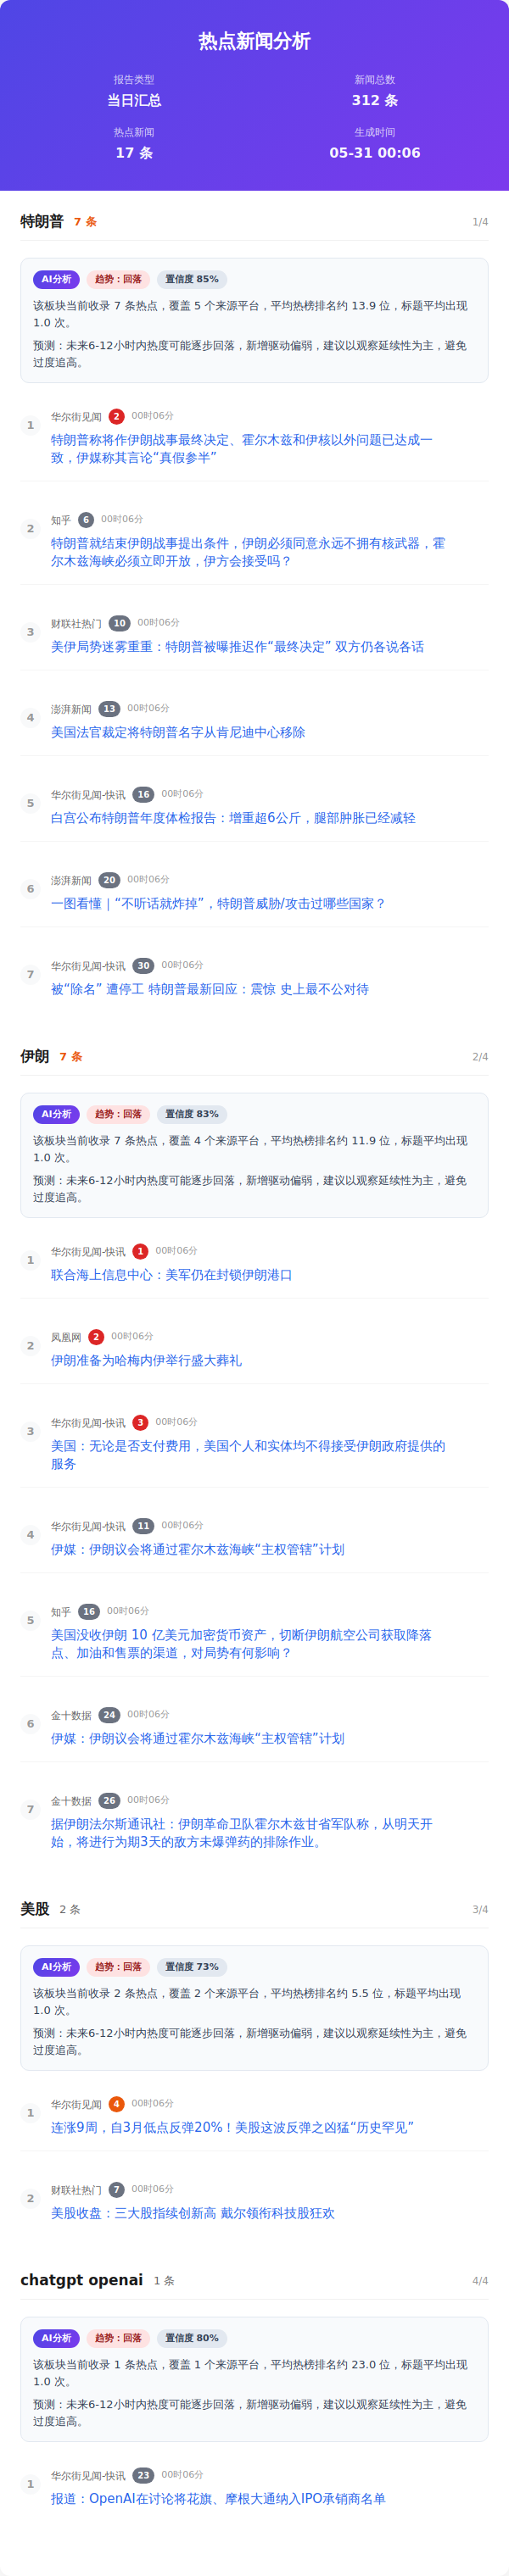
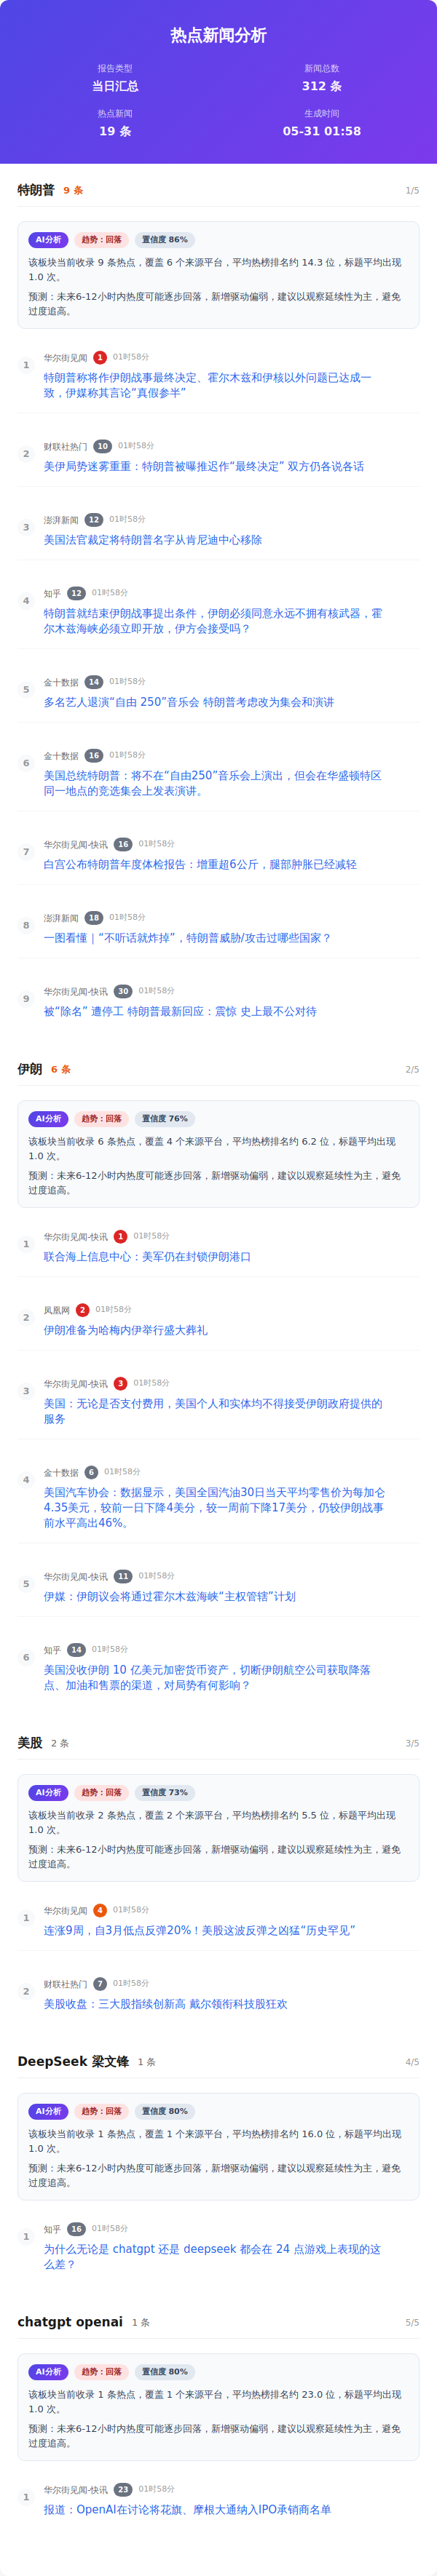
Auto update by GitHub Actions at Sun May 31 01:58:46 CST 2026

diff --git a/index.html b/index.html
@@ -459,11 +459,11 @@
                     </div>
                     <div class="info-item">
                         <span class="info-label">热点新闻</span>
-                        <span class="info-value">17 条</span>
+                        <span class="info-value">19 条</span>
                     </div>
                     <div class="info-item">
                         <span class="info-label">生成时间</span>
-                        <span class="info-value">05-31 00:06</span>
+                        <span class="info-value">05-31 01:58</span>
                     </div>
                 </div>
             </div>
@@ -473,24 +473,24 @@
                     <div class="word-header">
                         <div class="word-info">
                             <div class="word-name">特朗普</div>
-                            <div class="word-count warm">7 条</div>
+                            <div class="word-count warm">9 条</div>
                         </div>
-                        <div class="word-index">1/4</div>
+                        <div class="word-index">1/5</div>
                     </div>
                     <div class="ai-insight-card">
                         <div class="ai-insight-top">
                             <span class="ai-badge">AI分析</span>
                             <span class="trend-badge down">趋势：回落</span>
-                            <span class="confidence-pill">置信度 85%</span>
+                            <span class="confidence-pill">置信度 86%</span>
                         </div>
-                        <div class="ai-text">该板块当前收录 7 条热点，覆盖 5 个来源平台，平均热榜排名约 13.9 位，标题平均出现 1.0 次。</div>
+                        <div class="ai-text">该板块当前收录 9 条热点，覆盖 6 个来源平台，平均热榜排名约 14.3 位，标题平均出现 1.0 次。</div>
                         <div class="ai-text">预测：未来6-12小时内热度可能逐步回落，新增驱动偏弱，建议以观察延续性为主，避免过度追高。</div>
                     </div>
                     <div class="news-item ">
                         <div class="news-number">1</div>
                         <div class="news-content">
                             <div class="news-header">
-                                <span class="source-name">华尔街见闻</span><span class="rank-num top">2</span><span class="time-info">00时06分</span>
+                                <span class="source-name">华尔街见闻</span><span class="rank-num top">1</span><span class="time-info">01时58分</span>
                             </div>
                             <div class="news-title"><a href="https://wallstreetcn.com/articles/3773469" target="_blank" class="news-link">特朗普称将作伊朗战事最终决定、霍尔木兹和伊核以外问题已达成一致，伊媒称其言论“真假参半”</a>
                             </div>
@@ -500,9 +500,9 @@
                         <div class="news-number">2</div>
                         <div class="news-content">
                             <div class="news-header">
-                                <span class="source-name">知乎</span><span class="rank-num ">6</span><span class="time-info">00时06分</span>
+                                <span class="source-name">财联社热门</span><span class="rank-num ">10</span><span class="time-info">01时58分</span>
                             </div>
-                            <div class="news-title"><a href="https://www.zhihu.com/question/2043956365022814533" target="_blank" class="news-link">特朗普就结束伊朗战事提出条件，伊朗必须同意永远不拥有核武器，霍尔木兹海峡必须立即开放，伊方会接受吗？</a>
+                            <div class="news-title"><a href="https://www.cls.cn/detail/2385988" target="_blank" class="news-link">美伊局势迷雾重重：特朗普被曝推迟作“最终决定” 双方仍各说各话</a>
                             </div>
                         </div>
                     </div>
@@ -510,9 +510,9 @@
                         <div class="news-number">3</div>
                         <div class="news-content">
                             <div class="news-header">
-                                <span class="source-name">财联社热门</span><span class="rank-num ">10</span><span class="time-info">00时06分</span>
+                                <span class="source-name">澎湃新闻</span><span class="rank-num ">12</span><span class="time-info">01时58分</span>
                             </div>
-                            <div class="news-title"><a href="https://www.cls.cn/detail/2385988" target="_blank" class="news-link">美伊局势迷雾重重：特朗普被曝推迟作“最终决定” 双方仍各说各话</a>
+                            <div class="news-title"><a href="https://m.thepaper.cn/newsDetail_forward_33270121" target="_blank" class="news-link">美国法官裁定将特朗普名字从肯尼迪中心移除</a>
                             </div>
                         </div>
                     </div>
@@ -520,9 +520,9 @@
                         <div class="news-number">4</div>
                         <div class="news-content">
                             <div class="news-header">
-                                <span class="source-name">澎湃新闻</span><span class="rank-num ">13</span><span class="time-info">00时06分</span>
+                                <span class="source-name">知乎</span><span class="rank-num ">12</span><span class="time-info">01时58分</span>
                             </div>
-                            <div class="news-title"><a href="https://m.thepaper.cn/newsDetail_forward_33270121" target="_blank" class="news-link">美国法官裁定将特朗普名字从肯尼迪中心移除</a>
+                            <div class="news-title"><a href="https://www.zhihu.com/question/2043956365022814533" target="_blank" class="news-link">特朗普就结束伊朗战事提出条件，伊朗必须同意永远不拥有核武器，霍尔木兹海峡必须立即开放，伊方会接受吗？</a>
                             </div>
                         </div>
                     </div>
@@ -530,9 +530,9 @@
                         <div class="news-number">5</div>
                         <div class="news-content">
                             <div class="news-header">
-                                <span class="source-name">华尔街见闻-快讯</span><span class="rank-num ">16</span><span class="time-info">00时06分</span>
+                                <span class="source-name">金十数据</span><span class="rank-num ">14</span><span class="time-info">01时58分</span>
                             </div>
-                            <div class="news-title"><a href="https://wallstreetcn.com/livenews/3111814" target="_blank" class="news-link">白宫公布特朗普年度体检报告：增重超6公斤，腿部肿胀已经减轻</a>
+                            <div class="news-title"><a href="https://flash.jin10.com/detail/20260531003720339800" target="_blank" class="news-link">多名艺人退演“自由 250”音乐会 特朗普考虑改为集会和演讲</a>
                             </div>
                         </div>
                     </div>
@@ -540,9 +540,9 @@
                         <div class="news-number">6</div>
                         <div class="news-content">
                             <div class="news-header">
-                                <span class="source-name">澎湃新闻</span><span class="rank-num ">20</span><span class="time-info">00时06分</span>
+                                <span class="source-name">金十数据</span><span class="rank-num ">16</span><span class="time-info">01时58分</span>
                             </div>
-                            <div class="news-title"><a href="https://m.thepaper.cn/newsDetail_forward_33265548" target="_blank" class="news-link">一图看懂｜“不听话就炸掉”，特朗普威胁/攻击过哪些国家？</a>
+                            <div class="news-title"><a href="https://flash.jin10.com/detail/20260531001517348800" target="_blank" class="news-link">美国总统特朗普：将不在“自由250”音乐会上演出，但会在华盛顿特区同一地点的竞选集会上发表演讲。</a>
                             </div>
                         </div>
                     </div>
@@ -550,7 +550,27 @@
                         <div class="news-number">7</div>
                         <div class="news-content">
                             <div class="news-header">
-                                <span class="source-name">华尔街见闻-快讯</span><span class="rank-num ">30</span><span class="time-info">00时06分</span>
+                                <span class="source-name">华尔街见闻-快讯</span><span class="rank-num ">16</span><span class="time-info">01时58分</span>
+                            </div>
+                            <div class="news-title"><a href="https://wallstreetcn.com/livenews/3111814" target="_blank" class="news-link">白宫公布特朗普年度体检报告：增重超6公斤，腿部肿胀已经减轻</a>
+                            </div>
+                        </div>
+                    </div>
+                    <div class="news-item ">
+                        <div class="news-number">8</div>
+                        <div class="news-content">
+                            <div class="news-header">
+                                <span class="source-name">澎湃新闻</span><span class="rank-num ">18</span><span class="time-info">01时58分</span>
+                            </div>
+                            <div class="news-title"><a href="https://m.thepaper.cn/newsDetail_forward_33265548" target="_blank" class="news-link">一图看懂｜“不听话就炸掉”，特朗普威胁/攻击过哪些国家？</a>
+                            </div>
+                        </div>
+                    </div>
+                    <div class="news-item ">
+                        <div class="news-number">9</div>
+                        <div class="news-content">
+                            <div class="news-header">
+                                <span class="source-name">华尔街见闻-快讯</span><span class="rank-num ">30</span><span class="time-info">01时58分</span>
                             </div>
                             <div class="news-title"><a href="https://wallstreetcn.com/livenews/3111801" target="_blank" class="news-link">被“除名” 遭停工 特朗普最新回应：震惊 史上最不公对待</a>
                             </div>
@@ -561,24 +581,24 @@
                     <div class="word-header">
                         <div class="word-info">
                             <div class="word-name">伊朗</div>
-                            <div class="word-count warm">7 条</div>
+                            <div class="word-count warm">6 条</div>
                         </div>
-                        <div class="word-index">2/4</div>
+                        <div class="word-index">2/5</div>
                     </div>
                     <div class="ai-insight-card">
                         <div class="ai-insight-top">
                             <span class="ai-badge">AI分析</span>
                             <span class="trend-badge down">趋势：回落</span>
-                            <span class="confidence-pill">置信度 83%</span>
+                            <span class="confidence-pill">置信度 76%</span>
                         </div>
-                        <div class="ai-text">该板块当前收录 7 条热点，覆盖 4 个来源平台，平均热榜排名约 11.9 位，标题平均出现 1.0 次。</div>
+                        <div class="ai-text">该板块当前收录 6 条热点，覆盖 4 个来源平台，平均热榜排名约 6.2 位，标题平均出现 1.0 次。</div>
                         <div class="ai-text">预测：未来6-12小时内热度可能逐步回落，新增驱动偏弱，建议以观察延续性为主，避免过度追高。</div>
                     </div>
                     <div class="news-item ">
                         <div class="news-number">1</div>
                         <div class="news-content">
                             <div class="news-header">
-                                <span class="source-name">华尔街见闻-快讯</span><span class="rank-num top">1</span><span class="time-info">00时06分</span>
+                                <span class="source-name">华尔街见闻-快讯</span><span class="rank-num top">1</span><span class="time-info">01时58分</span>
                             </div>
                             <div class="news-title"><a href="https://wallstreetcn.com/livenews/3111834" target="_blank" class="news-link">联合海上信息中心：美军仍在封锁伊朗港口</a>
                             </div>
@@ -588,7 +608,7 @@
                         <div class="news-number">2</div>
                         <div class="news-content">
                             <div class="news-header">
-                                <span class="source-name">凤凰网</span><span class="rank-num top">2</span><span class="time-info">00时06分</span>
+                                <span class="source-name">凤凰网</span><span class="rank-num top">2</span><span class="time-info">01时58分</span>
                             </div>
                             <div class="news-title"><a href="https://news.ifeng.com/c/8tYL9HroZVj" target="_blank" class="news-link">伊朗准备为哈梅内伊举行盛大葬礼</a>
                             </div>
@@ -598,7 +618,7 @@
                         <div class="news-number">3</div>
                         <div class="news-content">
                             <div class="news-header">
-                                <span class="source-name">华尔街见闻-快讯</span><span class="rank-num top">3</span><span class="time-info">00时06分</span>
+                                <span class="source-name">华尔街见闻-快讯</span><span class="rank-num top">3</span><span class="time-info">01时58分</span>
                             </div>
                             <div class="news-title"><a href="https://wallstreetcn.com/livenews/3111832" target="_blank" class="news-link">美国：无论是否支付费用，美国个人和实体均不得接受伊朗政府提供的服务</a>
                             </div>
@@ -608,9 +628,9 @@
                         <div class="news-number">4</div>
                         <div class="news-content">
                             <div class="news-header">
-                                <span class="source-name">华尔街见闻-快讯</span><span class="rank-num ">11</span><span class="time-info">00时06分</span>
+                                <span class="source-name">金十数据</span><span class="rank-num ">6</span><span class="time-info">01时58分</span>
                             </div>
-                            <div class="news-title"><a href="https://wallstreetcn.com/livenews/3111819" target="_blank" class="news-link">伊媒：伊朗议会将通过霍尔木兹海峡“主权管辖”计划</a>
+                            <div class="news-title"><a href="https://flash.jin10.com/detail/20260531012608857800" target="_blank" class="news-link">美国汽车协会：数据显示，美国全国汽油30日当天平均零售价为每加仑4.35美元，较前一日下降4美分，较一周前下降17美分，仍较伊朗战事前水平高出46%。</a>
                             </div>
                         </div>
                     </div>
@@ -618,9 +638,9 @@
                         <div class="news-number">5</div>
                         <div class="news-content">
                             <div class="news-header">
-                                <span class="source-name">知乎</span><span class="rank-num ">16</span><span class="time-info">00时06分</span>
+                                <span class="source-name">华尔街见闻-快讯</span><span class="rank-num ">11</span><span class="time-info">01时58分</span>
                             </div>
-                            <div class="news-title"><a href="https://www.zhihu.com/question/2043976799139492397" target="_blank" class="news-link">美国没收伊朗 10 亿美元加密货币资产，切断伊朗航空公司获取降落点、加油和售票的渠道，对局势有何影响？</a>
+                            <div class="news-title"><a href="https://wallstreetcn.com/livenews/3111819" target="_blank" class="news-link">伊媒：伊朗议会将通过霍尔木兹海峡“主权管辖”计划</a>
                             </div>
                         </div>
                     </div>
@@ -628,19 +648,9 @@
                         <div class="news-number">6</div>
                         <div class="news-content">
                             <div class="news-header">
-                                <span class="source-name">金十数据</span><span class="rank-num ">24</span><span class="time-info">00时06分</span>
+                                <span class="source-name">知乎</span><span class="rank-num ">14</span><span class="time-info">01时58分</span>
                             </div>
-                            <div class="news-title"><a href="https://flash.jin10.com/detail/20260530201304741800" target="_blank" class="news-link">伊媒：伊朗议会将通过霍尔木兹海峡“主权管辖”计划</a>
-                            </div>
-                        </div>
-                    </div>
-                    <div class="news-item ">
-                        <div class="news-number">7</div>
-                        <div class="news-content">
-                            <div class="news-header">
-                                <span class="source-name">金十数据</span><span class="rank-num ">26</span><span class="time-info">00时06分</span>
-                            </div>
-                            <div class="news-title"><a href="https://flash.jin10.com/detail/20260530200112317800" target="_blank" class="news-link">据伊朗法尔斯通讯社：伊朗革命卫队霍尔木兹甘省军队称，从明天开始，将进行为期3天的敌方未爆弹药的排除作业。</a>
+                            <div class="news-title"><a href="https://www.zhihu.com/question/2043976799139492397" target="_blank" class="news-link">美国没收伊朗 10 亿美元加密货币资产，切断伊朗航空公司获取降落点、加油和售票的渠道，对局势有何影响？</a>
                             </div>
                         </div>
                     </div>
@@ -651,7 +661,7 @@
                             <div class="word-name">美股</div>
                             <div class="word-count ">2 条</div>
                         </div>
-                        <div class="word-index">3/4</div>
+                        <div class="word-index">3/5</div>
                     </div>
                     <div class="ai-insight-card">
                         <div class="ai-insight-top">
@@ -666,7 +676,7 @@
                         <div class="news-number">1</div>
                         <div class="news-content">
                             <div class="news-header">
-                                <span class="source-name">华尔街见闻</span><span class="rank-num high">4</span><span class="time-info">00时06分</span>
+                                <span class="source-name">华尔街见闻</span><span class="rank-num high">4</span><span class="time-info">01时58分</span>
                             </div>
                             <div class="news-title"><a href="https://wallstreetcn.com/articles/3773491" target="_blank" class="news-link">连涨9周，自3月低点反弹20%！美股这波反弹之凶猛“历史罕见”</a>
                             </div>
@@ -676,9 +686,37 @@
                         <div class="news-number">2</div>
                         <div class="news-content">
                             <div class="news-header">
-                                <span class="source-name">财联社热门</span><span class="rank-num ">7</span><span class="time-info">00时06分</span>
+                                <span class="source-name">财联社热门</span><span class="rank-num ">7</span><span class="time-info">01时58分</span>
                             </div>
                             <div class="news-title"><a href="https://www.cls.cn/detail/2385964" target="_blank" class="news-link">美股收盘：三大股指续创新高 戴尔领衔科技股狂欢</a>
+                            </div>
+                        </div>
+                    </div>
+                </div>
+                <div class="word-group">
+                    <div class="word-header">
+                        <div class="word-info">
+                            <div class="word-name">DeepSeek 梁文锋</div>
+                            <div class="word-count ">1 条</div>
+                        </div>
+                        <div class="word-index">4/5</div>
+                    </div>
+                    <div class="ai-insight-card">
+                        <div class="ai-insight-top">
+                            <span class="ai-badge">AI分析</span>
+                            <span class="trend-badge down">趋势：回落</span>
+                            <span class="confidence-pill">置信度 80%</span>
+                        </div>
+                        <div class="ai-text">该板块当前收录 1 条热点，覆盖 1 个来源平台，平均热榜排名约 16.0 位，标题平均出现 1.0 次。</div>
+                        <div class="ai-text">预测：未来6-12小时内热度可能逐步回落，新增驱动偏弱，建议以观察延续性为主，避免过度追高。</div>
+                    </div>
+                    <div class="news-item ">
+                        <div class="news-number">1</div>
+                        <div class="news-content">
+                            <div class="news-header">
+                                <span class="source-name">知乎</span><span class="rank-num ">16</span><span class="time-info">01时58分</span>
+                            </div>
+                            <div class="news-title"><a href="https://www.zhihu.com/question/2040472846393161206" target="_blank" class="news-link">为什么无论是 chatgpt 还是 deepseek 都会在 24 点游戏上表现的这么差？</a>
                             </div>
                         </div>
                     </div>
@@ -689,7 +727,7 @@
                             <div class="word-name">chatgpt openai</div>
                             <div class="word-count ">1 条</div>
                         </div>
-                        <div class="word-index">4/4</div>
+                        <div class="word-index">5/5</div>
                     </div>
                     <div class="ai-insight-card">
                         <div class="ai-insight-top">
@@ -704,7 +742,7 @@
                         <div class="news-number">1</div>
                         <div class="news-content">
                             <div class="news-header">
-                                <span class="source-name">华尔街见闻-快讯</span><span class="rank-num ">23</span><span class="time-info">00时06分</span>
+                                <span class="source-name">华尔街见闻-快讯</span><span class="rank-num ">23</span><span class="time-info">01时58分</span>
                             </div>
                             <div class="news-title"><a href="https://wallstreetcn.com/livenews/3111808" target="_blank" class="news-link">报道：OpenAI在讨论将花旗、摩根大通纳入IPO承销商名单</a>
                             </div>